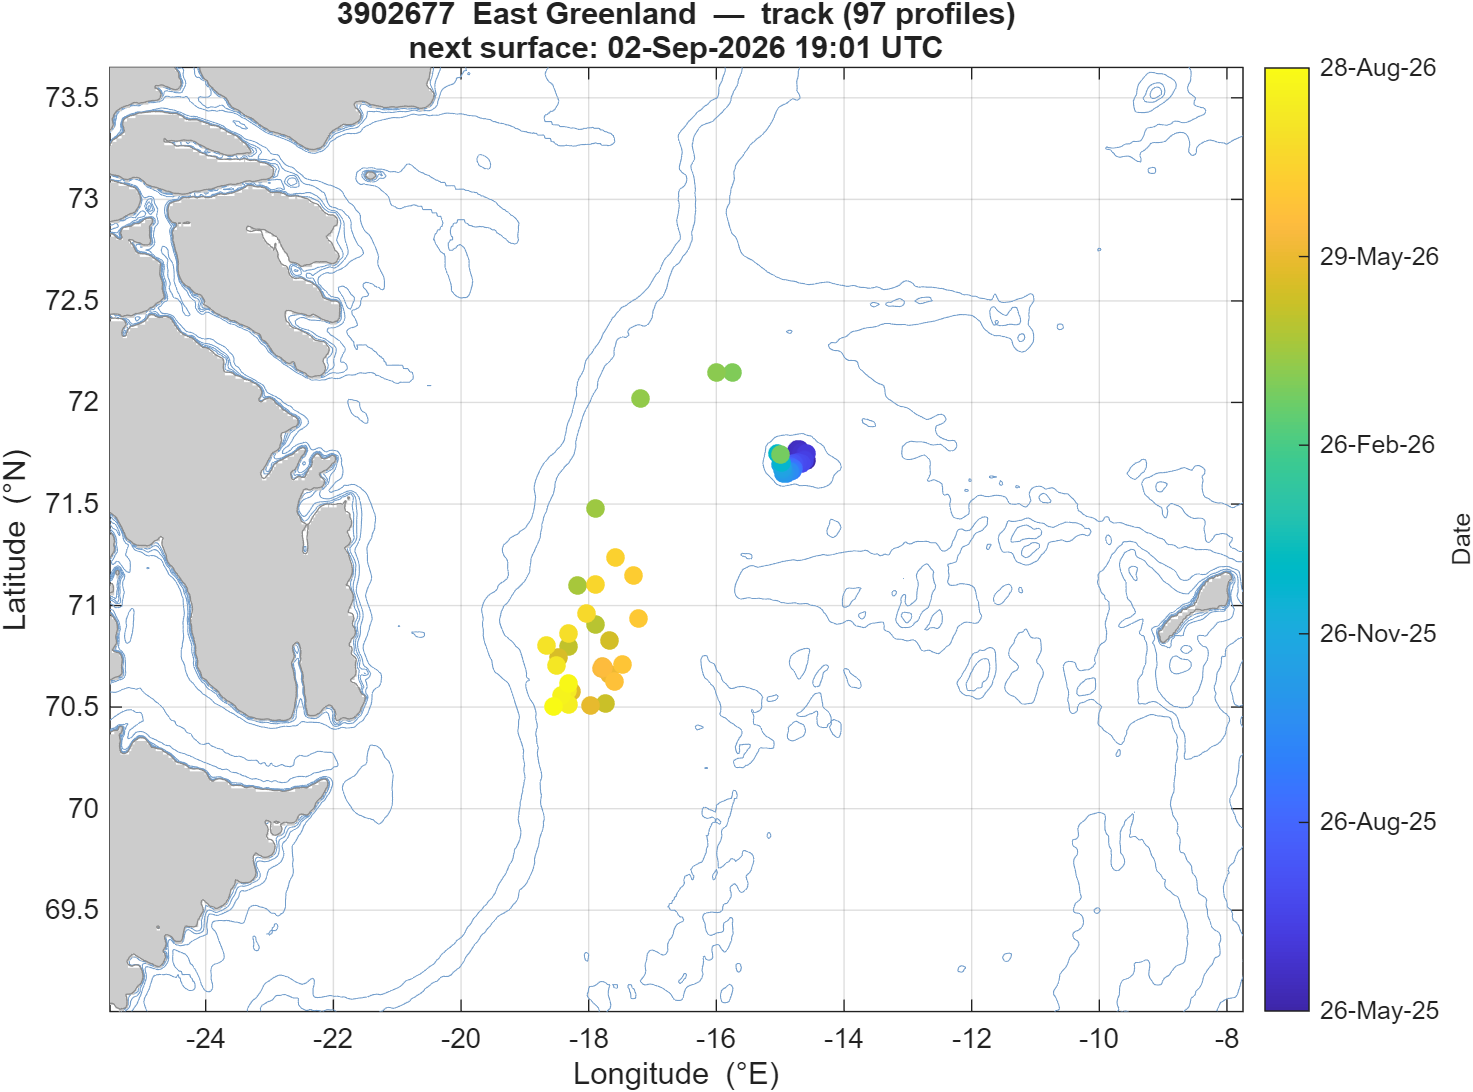
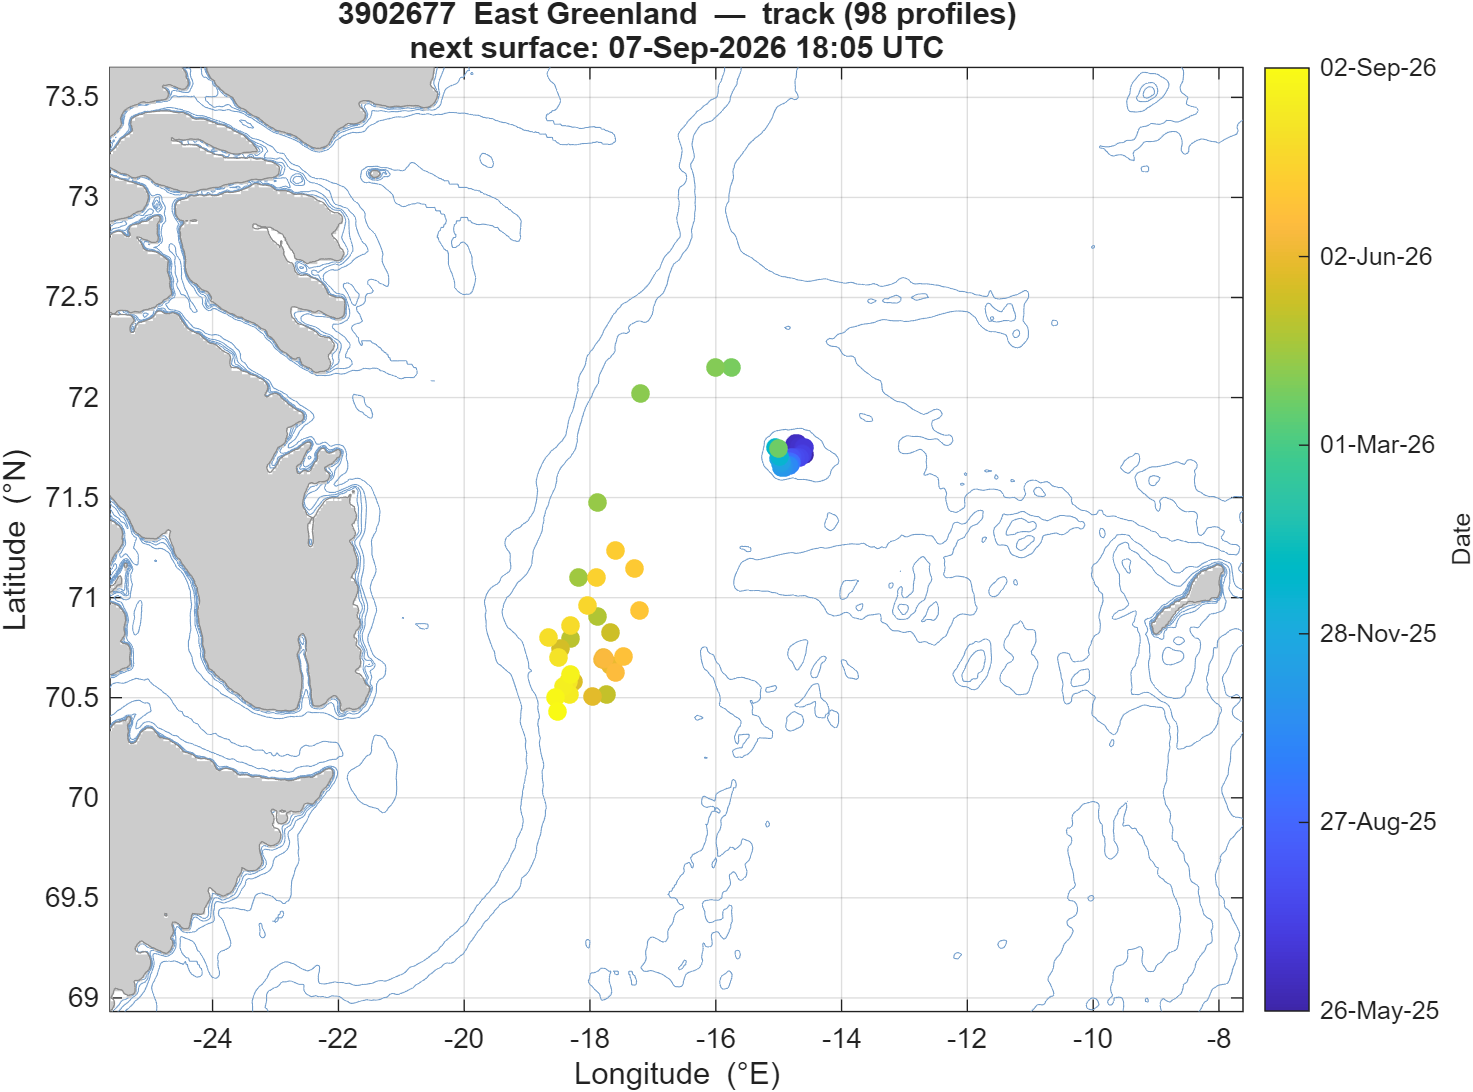
data update

diff --git a/data.js b/data.js
@@ -15,7 +15,7 @@
 //   graphs        [{label, src}, ...] figures for the fold-out
 //   notes         free text from floats_config.csv
 
-const floatUpdated = "2026-09-01 18:22";
+const floatUpdated = "2026-09-03 15:15";
 
 const floatData = [
   {
@@ -27,15 +27,15 @@ const floatData = [
     "region": "greenland",
     "status": "active",
     "status_note": "",
-    "latitude": 70.5008,
-    "longitude": -18.5499,
-    "location": "70.501° N, 18.550° W",
+    "latitude": 70.4317,
+    "longitude": -18.524,
+    "location": "70.432° N, 18.524° W",
     "deployment_date": "2025-05-27",
-    "last_surface": "2026-08-28 20:01",
-    "days_since": 3.9,
-    "next_surface": "2026-09-02 19:01",
+    "last_surface": "2026-09-02 19:05",
+    "days_since": 0.8,
+    "next_surface": "2026-09-07 18:05",
     "next_surface_source": "nke cycle period",
-    "n_profiles": 95,
+    "n_profiles": 96,
     "track": [
       [
         71.7159,
@@ -317,8 +317,8 @@ const floatData = [
         "src": "assets/plots/3902677/3902677_sections.png"
       },
       {
-        "label": "Profile 095  (2026-08-28)",
-        "src": "assets/plots/3902677/3902677_profile_095_2026-08-28.png"
+        "label": "Profile 096  (2026-09-02)",
+        "src": "assets/plots/3902677/3902677_profile_096_2026-09-02.png"
       }
     ],
     "notes": "sheet lists SBD+GDAC"
@@ -337,7 +337,7 @@ const floatData = [
     "location": "67.456° N, 19.840° W",
     "deployment_date": "2025-02-10",
     "last_surface": "2026-08-30 17:23",
-    "days_since": 2,
+    "days_since": 3.9,
     "next_surface": "2026-09-04 16:23",
     "next_surface_source": "nke cycle period",
     "n_profiles": 116,
@@ -837,15 +837,15 @@ const floatData = [
     "region": "greenland",
     "status": "active",
     "status_note": "",
-    "latitude": 78.6974,
-    "longitude": -11.2251,
-    "location": "78.697° N, 11.225° W",
+    "latitude": 78.6913,
+    "longitude": -11.2546,
+    "location": "78.691° N, 11.255° W",
     "deployment_date": "2025-08-04",
-    "last_surface": "2026-08-27 05:36",
-    "days_since": 5.5,
-    "next_surface": "2026-09-01 04:36",
+    "last_surface": "2026-09-01 04:35",
+    "days_since": 2.4,
+    "next_surface": "2026-09-06 03:35",
     "next_surface_source": "nke cycle period",
-    "n_profiles": 80,
+    "n_profiles": 81,
     "track": [
       [
         78.8438,
@@ -1178,6 +1178,10 @@ const floatData = [
       [
         78.6974,
         -11.2251
+      ],
+      [
+        78.6913,
+        -11.2546
       ]
     ],
     "trajectory": "assets/plots/3902694/3902694_map.png",
@@ -1187,8 +1191,8 @@ const floatData = [
         "src": "assets/plots/3902694/3902694_sections.png"
       },
       {
-        "label": "Profile 080  (2026-08-27)",
-        "src": "assets/plots/3902694/3902694_profile_080_2026-08-27.png"
+        "label": "Profile 081  (2026-09-01)",
+        "src": "assets/plots/3902694/3902694_profile_081_2026-09-01.png"
       }
     ],
     "notes": ""
@@ -1202,15 +1206,15 @@ const floatData = [
     "region": "greenland",
     "status": "active",
     "status_note": "",
-    "latitude": 75.3933,
-    "longitude": -10.6036,
-    "location": "75.393° N, 10.604° W",
+    "latitude": 74.8257,
+    "longitude": -12.0202,
+    "location": "74.826° N, 12.020° W",
     "deployment_date": "2025-10-30",
-    "last_surface": "2026-08-29 14:05",
-    "days_since": 3.2,
-    "next_surface": "2026-09-03 13:05",
+    "last_surface": "2026-09-03 12:51",
+    "days_since": 0.1,
+    "next_surface": "2026-09-08 11:51",
     "next_surface_source": "nke cycle period",
-    "n_profiles": 61,
+    "n_profiles": 62,
     "track": [
       [
         81.3966,
@@ -1467,6 +1471,10 @@ const floatData = [
       [
         75.3933,
         -10.6036
+      ],
+      [
+        74.8257,
+        -12.0202
       ]
     ],
     "trajectory": "assets/plots/7902329/7902329_map.png",
@@ -1476,8 +1484,8 @@ const floatData = [
         "src": "assets/plots/7902329/7902329_sections.png"
       },
       {
-        "label": "Profile 071  (2026-08-29)",
-        "src": "assets/plots/7902329/7902329_profile_071_2026-08-29.png"
+        "label": "Profile 072  (2026-09-03)",
+        "src": "assets/plots/7902329/7902329_profile_072_2026-09-03.png"
       }
     ],
     "notes": "ODEN2025 (North Pole deployment); pre-deployment Denmark test dropped via deploy_date"
@@ -1496,7 +1504,7 @@ const floatData = [
     "location": "77.352° N, 70.470° W",
     "deployment_date": "2025-08-13",
     "last_surface": "2026-08-30 07:24",
-    "days_since": 2.5,
+    "days_since": 4.3,
     "next_surface": "2026-09-04 06:24",
     "next_surface_source": "nke cycle period",
     "n_profiles": 57,
@@ -1764,15 +1772,15 @@ const floatData = [
     "region": "greenland",
     "status": "active",
     "status_note": "",
-    "latitude": 74.3732,
-    "longitude": -20.3587,
-    "location": "74.373° N, 20.359° W",
+    "latitude": 74.3674,
+    "longitude": -20.3564,
+    "location": "74.367° N, 20.356° W",
     "deployment_date": "2025-08-17",
-    "last_surface": "2026-08-24 08:23",
-    "days_since": 8.4,
-    "next_surface": "2026-09-03 03:23",
+    "last_surface": "2026-09-03 03:26",
+    "days_since": 0.5,
+    "next_surface": "2026-09-12 22:26",
     "next_surface_source": "nke cycle period",
-    "n_profiles": 38,
+    "n_profiles": 39,
     "track": [
       [
         74.3939,
@@ -1937,6 +1945,10 @@ const floatData = [
       [
         74.3732,
         -20.3587
+      ],
+      [
+        74.3674,
+        -20.3564
       ]
     ],
     "trajectory": "assets/plots/2903997/2903997_map.png",
@@ -1946,8 +1958,8 @@ const floatData = [
         "src": "assets/plots/2903997/2903997_sections.png"
       },
       {
-        "label": "Profile 039  (2026-08-24)",
-        "src": "assets/plots/2903997/2903997_profile_039_2026-08-24.png"
+        "label": "Profile 040  (2026-09-03)",
+        "src": "assets/plots/2903997/2903997_profile_040_2026-09-03.png"
       }
     ],
     "notes": ""
@@ -1961,15 +1973,15 @@ const floatData = [
     "region": "denmark",
     "status": "active",
     "status_note": "",
-    "latitude": 56.3247,
-    "longitude": 19.3199,
-    "location": "56.325° N, 19.320° E",
+    "latitude": 56.3206,
+    "longitude": 19.3234,
+    "location": "56.321° N, 19.323° E",
     "deployment_date": "2024-11-25",
-    "last_surface": "2026-08-27 18:38",
-    "days_since": 5,
-    "next_surface": "2026-09-01 13:38",
+    "last_surface": "2026-09-01 13:43",
+    "days_since": 2.1,
+    "next_surface": "2026-09-06 08:43",
     "next_surface_source": "nke cycle period",
-    "n_profiles": 138,
+    "n_profiles": 139,
     "track": [
       [
         55.4992,
@@ -2526,6 +2538,10 @@ const floatData = [
       [
         56.3247,
         19.3199
+      ],
+      [
+        56.3206,
+        19.3234
       ]
     ],
     "trajectory": "assets/plots/3902607/3902607_map.png",
@@ -2535,8 +2551,8 @@ const floatData = [
         "src": "assets/plots/3902607/3902607_sections.png"
       },
       {
-        "label": "Profile 138  (2026-08-27)",
-        "src": "assets/plots/3902607/3902607_profile_138_2026-08-27.png"
+        "label": "Profile 139  (2026-09-01)",
+        "src": "assets/plots/3902607/3902607_profile_139_2026-09-01.png"
       }
     ],
     "notes": "RBR CTD; pre-deployment July-2024 fix dropped via deploy_date"
@@ -2555,7 +2571,7 @@ const floatData = [
     "location": "55.201° N, 9.753° E",
     "deployment_date": "2026-06-23",
     "last_surface": "2026-08-31 23:11",
-    "days_since": 0.8,
+    "days_since": 2.7,
     "next_surface": "2026-09-05 22:21",
     "next_surface_source": "median cycle interval",
     "n_profiles": 15,
@@ -2643,15 +2659,15 @@ const floatData = [
     "region": "denmark",
     "status": "active",
     "status_note": "",
-    "latitude": 54.986,
-    "longitude": 10.2292,
-    "location": "54.986° N, 10.229° E",
+    "latitude": 54.9866,
+    "longitude": 10.2289,
+    "location": "54.987° N, 10.229° E",
     "deployment_date": "2026-06-24",
-    "last_surface": "2026-08-29 01:59",
-    "days_since": 3.7,
-    "next_surface": "2026-09-03 01:54",
+    "last_surface": "2026-09-03 02:44",
+    "days_since": 0.5,
+    "next_surface": "2026-09-08 02:47",
     "next_surface_source": "median cycle interval",
-    "n_profiles": 14,
+    "n_profiles": 15,
     "track": [
       [
         54.9864,
@@ -2708,6 +2724,10 @@ const floatData = [
       [
         54.986,
         10.2292
+      ],
+      [
+        54.9866,
+        10.2289
       ]
     ],
     "trajectory": "assets/plots/Sgav_provor/Sgav_provor_map.png",
@@ -2717,8 +2737,8 @@ const floatData = [
         "src": "assets/plots/Sgav_provor/Sgav_provor_sections.png"
       },
       {
-        "label": "Profile 014  (2026-08-29)",
-        "src": "assets/plots/Sgav_provor/Sgav_provor_profile_014_2026-08-29.png"
+        "label": "Profile 015  (2026-09-03)",
+        "src": "assets/plots/Sgav_provor/Sgav_provor_profile_015_2026-09-03.png"
       }
     ],
     "notes": "BGC+RAMSES+SUNA; needs external SGAV_provor tree beside pipeline (FTP+APMTDecoder); set active=true to re-run"
@@ -2731,13 +2751,13 @@ const floatData = [
     "sensors": "bgc",
     "region": "denmark",
     "status": "inactive",
-    "status_note": "no transmission for 422 days — no next surfacing predicted",
+    "status_note": "no transmission for 424 days — no next surfacing predicted",
     "latitude": 55.1358,
     "longitude": 14.5121,
     "location": "55.136° N, 14.512° E",
     "deployment_date": "2023-11-07",
     "last_surface": "2025-07-06 10:58",
-    "days_since": 422.3,
+    "days_since": 424.2,
     "next_surface": "",
     "next_surface_source": "",
     "n_profiles": 190,
